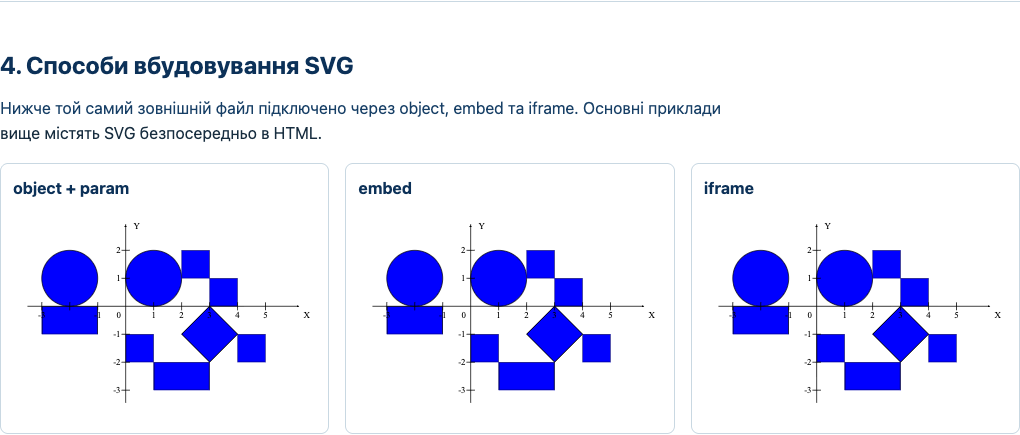
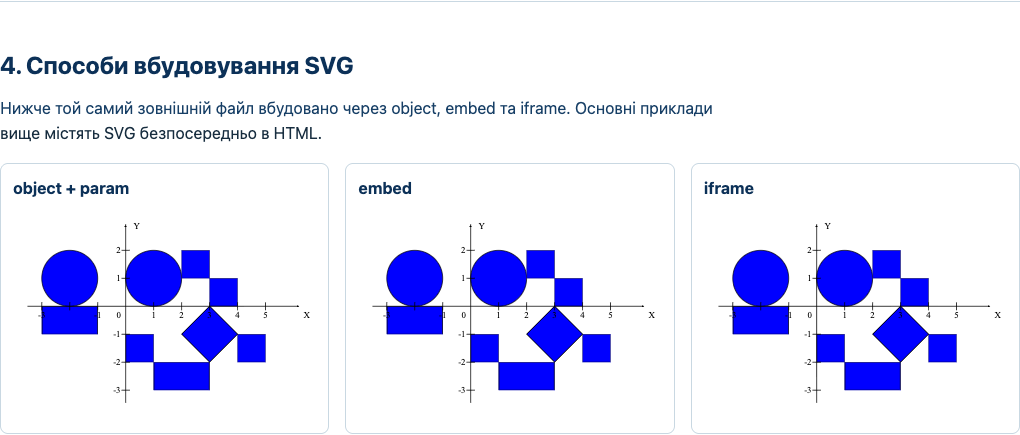
Refine SVG presentation for IDE compatibility

Changed region(s): [[0.2431, 0.2391, 0.7294, 0.269]]

diff --git a/svg.html b/svg.html
@@ -46,7 +46,7 @@
       <path d="M0 0 L6 3 L0 6 Z" fill="black" />
     </marker>
   </defs>
-  <g id="static-shapes" transform="translate(290 245) scale(72 -72)" fill="#0000ff" stroke="black" stroke-width="0.025">
+  <g id="static-shapes" transform="translate(290 245) scale(72 -72)" style="fill: #0000ff;" stroke="black" stroke-width="0.025">
     <circle id="static-left-circle" data-figure="left-circle" cx="-2" cy="1" r="1" />
     <circle id="static-right-circle" data-figure="right-circle" cx="1" cy="1" r="1" />
     <use id="static-left-bar" data-figure="left-bar" href="#static-box" x="-3" y="-1" width="2" height="1" />
@@ -57,7 +57,7 @@
     <use id="static-bottom-right-box" data-figure="bottom-right-box" href="#static-box" x="4" y="-2" width="1" height="1" />
     <polygon id="static-diamond" data-figure="diamond" points="2,-1 3,0 4,-1 3,-2" />
   </g>
-  <g id="static-axes" fill="none" stroke="black" stroke-width="2">
+  <g id="static-axes" style="fill: none;" stroke="black" stroke-width="2">
     <line x1="38" y1="245" x2="736" y2="245" marker-end="url(#static-arrow)" />
     <line x1="290" y1="493" x2="290" y2="35" marker-end="url(#static-arrow)" />
     <line x1="74" y1="235" x2="74" y2="255" />
@@ -74,7 +74,7 @@
     <line x1="280" y1="173" x2="300" y2="173" />
     <line x1="280" y1="101" x2="300" y2="101" />
   </g>
-  <g fill="black" font-family="Times New Roman, serif" font-size="23">
+  <g style="fill: black;" font-family="Times New Roman, serif" font-size="23">
     <text x="748" y="274">X</text>
     <text x="310" y="45">Y</text>
     <text x="278" y="274" text-anchor="end">0</text>
@@ -114,9 +114,11 @@
     </symbol>
   </defs>
   <ellipse cx="390" cy="185" rx="220" ry="72" fill="#eef7fa" />
-  <use href="#headline-curve" fill="none" stroke="#90afc1" stroke-width="2" stroke-dasharray="6 6" />
+  <use href="#headline-curve" style="fill: none;" stroke="#90afc1" stroke-width="2" stroke-dasharray="6 6" />
   <text fill="#0c3158" font-family="Georgia, serif" font-size="28" letter-spacing="1">
-    <textPath href="#headline-curve" startOffset="50%" text-anchor="middle">SVG · ByteMarket · Варіант 5</textPath>
+    <!-- SVG 2: href and startOffset are standard textPath attributes. -->
+    <!--suppress HtmlDeprecatedAttribute -->
+    <textPath href="#headline-curve" startOffset="50%" style="text-anchor: middle;">SVG · ByteMarket · Варіант 5</textPath>
   </text>
   <polyline points="270,190 390,225 510,190" fill="none" stroke="#157983" stroke-width="3" />
   <use href="#chip-symbol" x="230" y="145" width="80" height="80" />
@@ -147,7 +149,7 @@
       <path d="M0 0 L6 3 L0 6 Z" fill="black" />
     </marker>
   </defs>
-  <g id="animated-shapes" transform="translate(290 245) scale(72 -72)" fill="#0000ff" stroke="black" stroke-width="0.025">
+  <g id="animated-shapes" transform="translate(290 245) scale(72 -72)" style="fill: #0000ff;" stroke="black" stroke-width="0.025">
     <circle id="animated-left-circle" data-figure="left-circle" cx="-2" cy="1" r="1">
       <animate attributeName="fill" values="#0000ff;#ff6b35;#0000ff" dur="4s" repeatCount="indefinite" />
     </circle>
@@ -178,7 +180,7 @@
       </g>
     </g>
   </g>
-  <g id="animated-axes" fill="none" stroke="black" stroke-width="2">
+  <g id="animated-axes" style="fill: none;" stroke="black" stroke-width="2">
     <line x1="38" y1="245" x2="736" y2="245" marker-end="url(#animated-arrow)" />
     <line x1="290" y1="493" x2="290" y2="35" marker-end="url(#animated-arrow)" />
     <line x1="74" y1="235" x2="74" y2="255" />
@@ -195,7 +197,7 @@
     <line x1="280" y1="173" x2="300" y2="173" />
     <line x1="280" y1="101" x2="300" y2="101" />
   </g>
-  <g fill="black" font-family="Times New Roman, serif" font-size="23">
+  <g style="fill: black;" font-family="Times New Roman, serif" font-size="23">
     <text x="748" y="274">X</text>
     <text x="310" y="45">Y</text>
     <text x="278" y="274" text-anchor="end">0</text>
@@ -226,12 +228,12 @@
     </section>
     <section id="embedding-section" class="content-section" aria-labelledby="embedding-heading">
       <h2 id="embedding-heading">4. Способи вбудовування SVG</h2>
-      <p>Нижче той самий зовнішній файл підключено через object, embed та iframe. Основні приклади вище містять SVG безпосередньо в HTML.</p>
+      <p>Нижче той самий зовнішній файл вбудовано через object, embed та iframe. Основні приклади вище містять SVG безпосередньо в HTML.</p>
       <div class="embedding-grid">
         <figure class="embedding-card"><figcaption>object + param</figcaption>
           <object id="svg-object" data="assets/svg/variant5-static.svg" type="image/svg+xml" width="780" height="540" aria-label="Статичний SVG через object">
             <!-- Param залишено на вимогу методички. -->
-            <!--suppress HtmlDeprecatedTag,XmlDeprecatedElement -->
+            <!--suppress HtmlDeprecatedTag,HtmlDeprecatedAttribute,XmlDeprecatedElement -->
             <param name="view" value="variant-5">
             <p>Відкрийте <a href="assets/svg/variant5-static.svg">SVG-файл</a>, якщо об’єкт не відображається.</p>
           </object>

diff --git a/scripts/svg-page.template.html b/scripts/svg-page.template.html
@@ -71,12 +71,12 @@
     </section>
     <section id="embedding-section" class="content-section" aria-labelledby="embedding-heading">
       <h2 id="embedding-heading">4. Способи вбудовування SVG</h2>
-      <p>Нижче той самий зовнішній файл підключено через object, embed та iframe. Основні приклади вище містять SVG безпосередньо в HTML.</p>
+      <p>Нижче той самий зовнішній файл вбудовано через object, embed та iframe. Основні приклади вище містять SVG безпосередньо в HTML.</p>
       <div class="embedding-grid">
         <figure class="embedding-card"><figcaption>object + param</figcaption>
           <object id="svg-object" data="assets/svg/variant5-static.svg" type="image/svg+xml" width="780" height="540" aria-label="Статичний SVG через object">
             <!-- Param залишено на вимогу методички. -->
-            <!--suppress HtmlDeprecatedTag,XmlDeprecatedElement -->
+            <!--suppress HtmlDeprecatedTag,HtmlDeprecatedAttribute,XmlDeprecatedElement -->
             <param name="view" value="variant-5">
             <p>Відкрийте <a href="assets/svg/variant5-static.svg">SVG-файл</a>, якщо об’єкт не відображається.</p>
           </object>

diff --git a/scripts/build_svgs.py b/scripts/build_svgs.py
@@ -47,7 +47,7 @@ def chart(animated=False):
       </g>
     </g>'''
         ]
-    axes = [f'  <g id="{prefix}-axes" fill="none" stroke="black" stroke-width="2">',
+    axes = [f'  <g id="{prefix}-axes" style="fill: none;" stroke="black" stroke-width="2">',
             f'    <line x1="38" y1="245" x2="736" y2="245" marker-end="url(#{prefix}-arrow)" />',
             f'    <line x1="290" y1="493" x2="290" y2="35" marker-end="url(#{prefix}-arrow)" />']
     for x in [-3, -2, -1, 1, 2, 3, 4, 5]:
@@ -57,7 +57,7 @@ def chart(animated=False):
         py = 245 - y*72
         axes.append(f'    <line x1="280" y1="{py}" x2="300" y2="{py}" />')
     axes.append('  </g>')
-    labels = ['  <g fill="black" font-family="Times New Roman, serif" font-size="23">',
+    labels = ['  <g style="fill: black;" font-family="Times New Roman, serif" font-size="23">',
               '    <text x="748" y="274">X</text>', '    <text x="310" y="45">Y</text>',
               '    <text x="278" y="274" text-anchor="end">0</text>']
     for x in [-3, -1, 1, 2, 3, 4, 5]:
@@ -69,7 +69,7 @@ def chart(animated=False):
   <title id="{prefix}-title">{title}</title>
   <desc id="{prefix}-desc">Два кола, шість прямокутників і ромб синього кольору на осях X та Y. Центри кіл: (-2, 1) і (1, 1), радіус 1. Вершини ромба: (2, -1), (3, 0), (4, -1), (3, -2).</desc>
 {defs}
-  <g id="{prefix}-shapes" transform="translate(290 245) scale(72 -72)" fill="#0000ff" stroke="black" stroke-width="0.025">
+  <g id="{prefix}-shapes" transform="translate(290 245) scale(72 -72)" style="fill: #0000ff;" stroke="black" stroke-width="0.025">
     '''+'\n    '.join(figures)+'\n  </g>\n'+'\n'.join(axes+labels)+'\n</svg>'
 
 
@@ -89,9 +89,11 @@ def curved_text():
     </symbol>
   </defs>
   <ellipse cx="390" cy="185" rx="220" ry="72" fill="#eef7fa" />
-  <use href="#headline-curve" fill="none" stroke="#90afc1" stroke-width="2" stroke-dasharray="6 6" />
+  <use href="#headline-curve" style="fill: none;" stroke="#90afc1" stroke-width="2" stroke-dasharray="6 6" />
   <text fill="#0c3158" font-family="Georgia, serif" font-size="28" letter-spacing="1">
-    <textPath href="#headline-curve" startOffset="50%" text-anchor="middle">SVG · ByteMarket · Варіант 5</textPath>
+    <!-- SVG 2: href and startOffset are standard textPath attributes. -->
+    <!--suppress HtmlDeprecatedAttribute -->
+    <textPath href="#headline-curve" startOffset="50%" style="text-anchor: middle;">SVG · ByteMarket · Варіант 5</textPath>
   </text>
   <polyline points="270,190 390,225 510,190" fill="none" stroke="#157983" stroke-width="3" />
   <use href="#chip-symbol" x="230" y="145" width="80" height="80" />

diff --git a/report/build_report.py b/report/build_report.py
@@ -83,7 +83,7 @@ source('''<defs>
 </defs>
 <text>
   <textPath href="#headline-curve" startOffset="50%"
-            text-anchor="middle">
+            style="text-anchor: middle;">
     SVG · ByteMarket · Варіант 5
   </textPath>
 </text>''')
